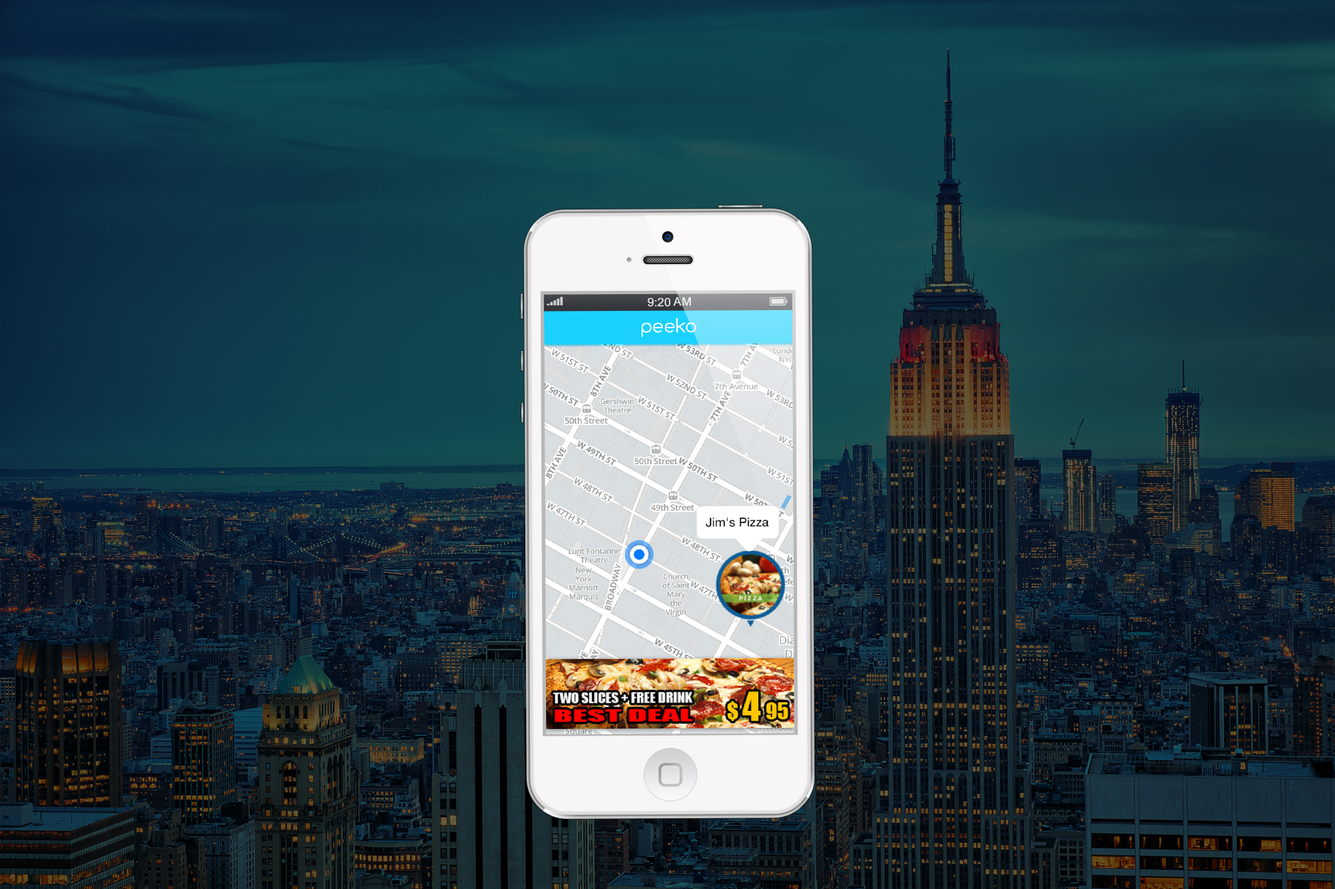
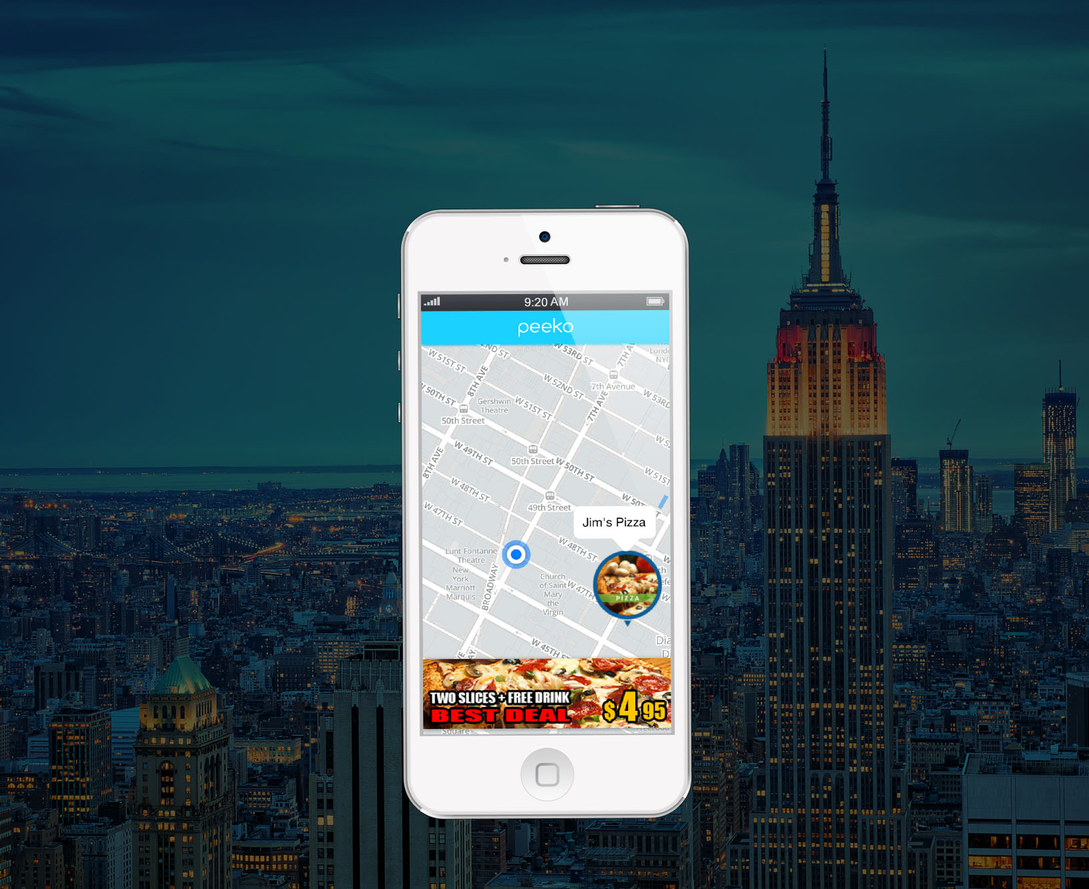
Image compression

diff --git a/public/css/default.css b/public/css/default.css
@@ -25,7 +25,8 @@ img{
 	width: 100%;
 	height: 650px;
 	background: url('../img/phone.jpg') no-repeat;
-	background-size: 100% 100%;
+	background-size: 100% auto;
+	background-position: 0 -90px;
 	border-radius: 10px;
 	-webkit-border-radius: 10px;
 	-moz-border-radius: 10px;
@@ -43,7 +44,7 @@ img{
 #deals{
 	position: absolute;
 	bottom: 0;
-	width: 100%;1\
+	width: 100%;
 }
 
 #deals .deal-container{
